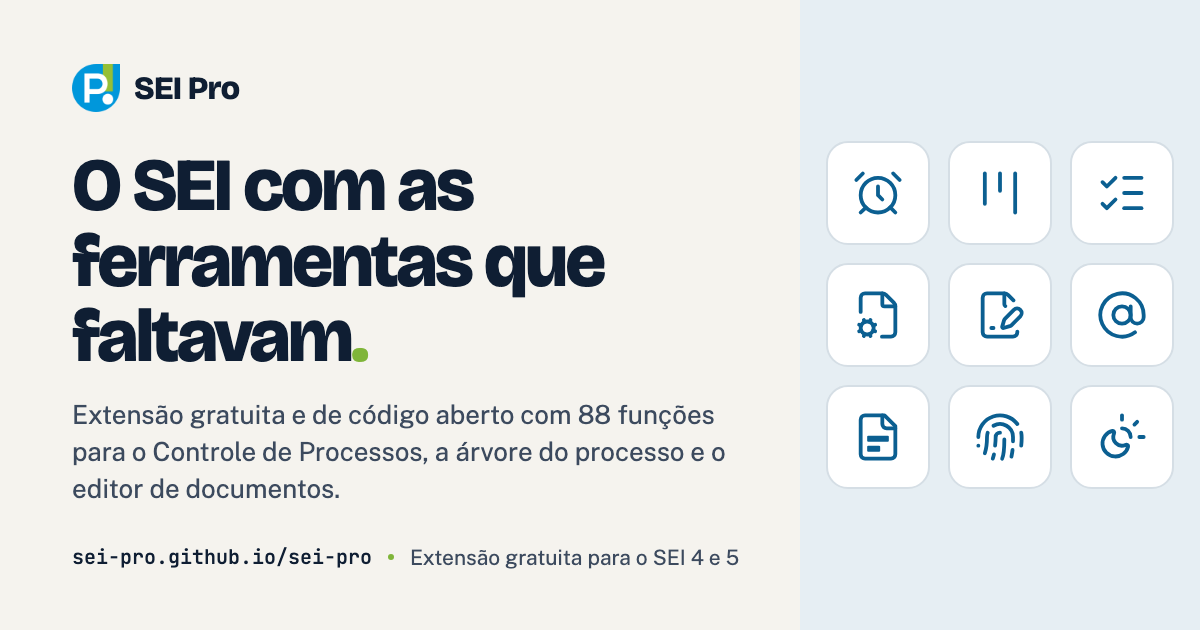
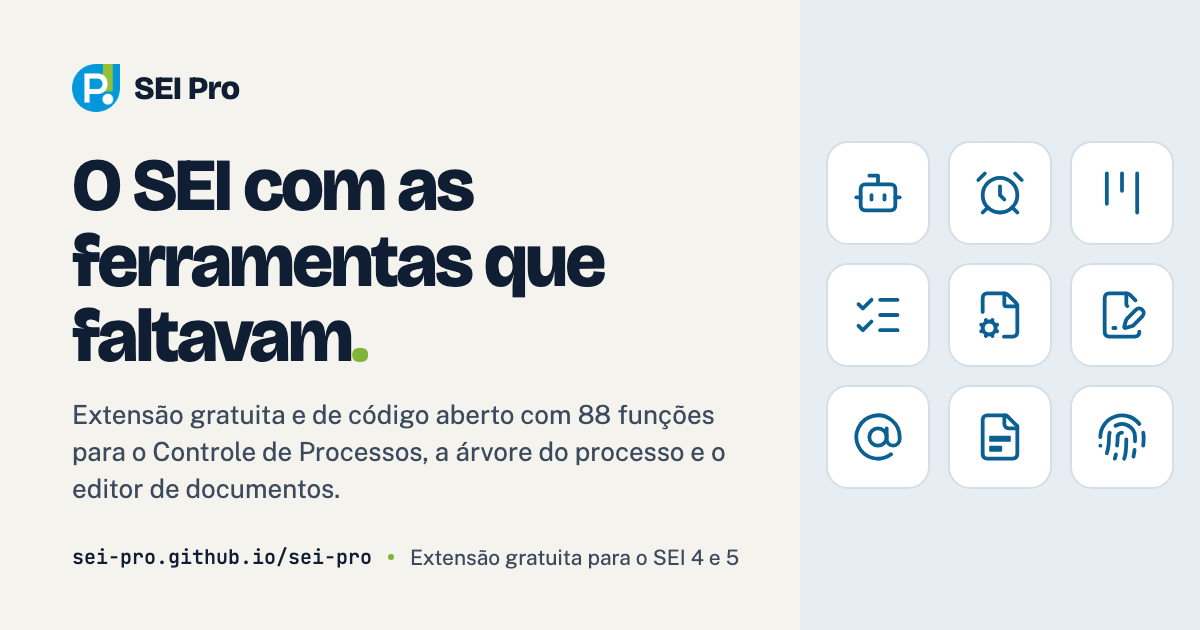
Capa Open Graph do Agente de IA
A capa de cada pagina e' gerada por _og/gerar_capas.py; faltava a do agente, e
a pagina apareceria no WhatsApp e nas redes com a capa generica da home.

- img/og/AGENTEIA.png, com o icone do robo e a frase do que o agente faz. O
  resumo entrou em LEADS_FIXOS: o primeiro paragrafo da pagina e' longo e a
  capa o cortava no meio ("...consulta processos, le...");
- a capa da home ganhou o robo na primeira posicao da grade de icones, no lugar
  do modo noturno -- a home agora abre com o agente;
- img/og/FERRAMENTASIA.png apagada junto com a pagina antiga.

diff --git a/_og/gerar_capas.py b/_og/gerar_capas.py
@@ -26,9 +26,12 @@ SAIDA = os.path.join(RAIZ, 'img', 'og')
 CHROME = os.environ.get('CHROME', '/Applications/Google Chrome.app/Contents/MacOS/Google Chrome')
 LOGO = 'file://' + os.path.join(RAIZ, 'dist', 'icons', 'icon-256.png')
 # Paginas cujo primeiro paragrafo nao serve de resumo
-LEADS_FIXOS = {'HISTORICO': 'Tudo o que mudou em cada versão da extensão, da mais recente à mais antiga.'}
+LEADS_FIXOS = {
+    'HISTORICO': 'Tudo o que mudou em cada versão da extensão, da mais recente à mais antiga.',
+    'AGENTEIA': 'Pergunte em português: ele consulta processos e documentos, escreve e altera o SEI — e só age depois que você aprova.',
+}
 LEAD_PADRAO = 'Passo a passo no guia do SEI Pro, a extensão gratuita com funções avançadas para o SEI.'
-ICONES_HOME = ['alarm-clock', 'kanban', 'list-checks', 'file-cog', 'file-pen-line', 'at-sign', 'spro-tarja', 'fingerprint', 'sun-moon']
+ICONES_HOME = ['bot', 'alarm-clock', 'kanban', 'list-checks', 'file-cog', 'file-pen-line', 'at-sign', 'spro-tarja', 'fingerprint']
 
 
 def ler(caminho):
